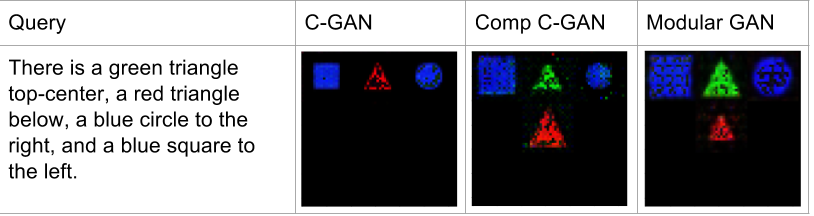
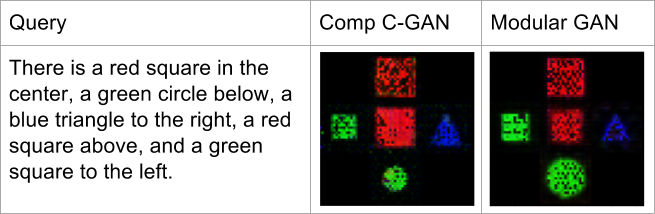
changed image for ViGIL paper

diff --git a/assets/css/custom.css b/assets/css/custom.css
@@ -20,7 +20,7 @@
 }
 
 #three .features img {
-    width: 100%;
+    width: 75%;
 }
 
 .wrapper.style3 {
